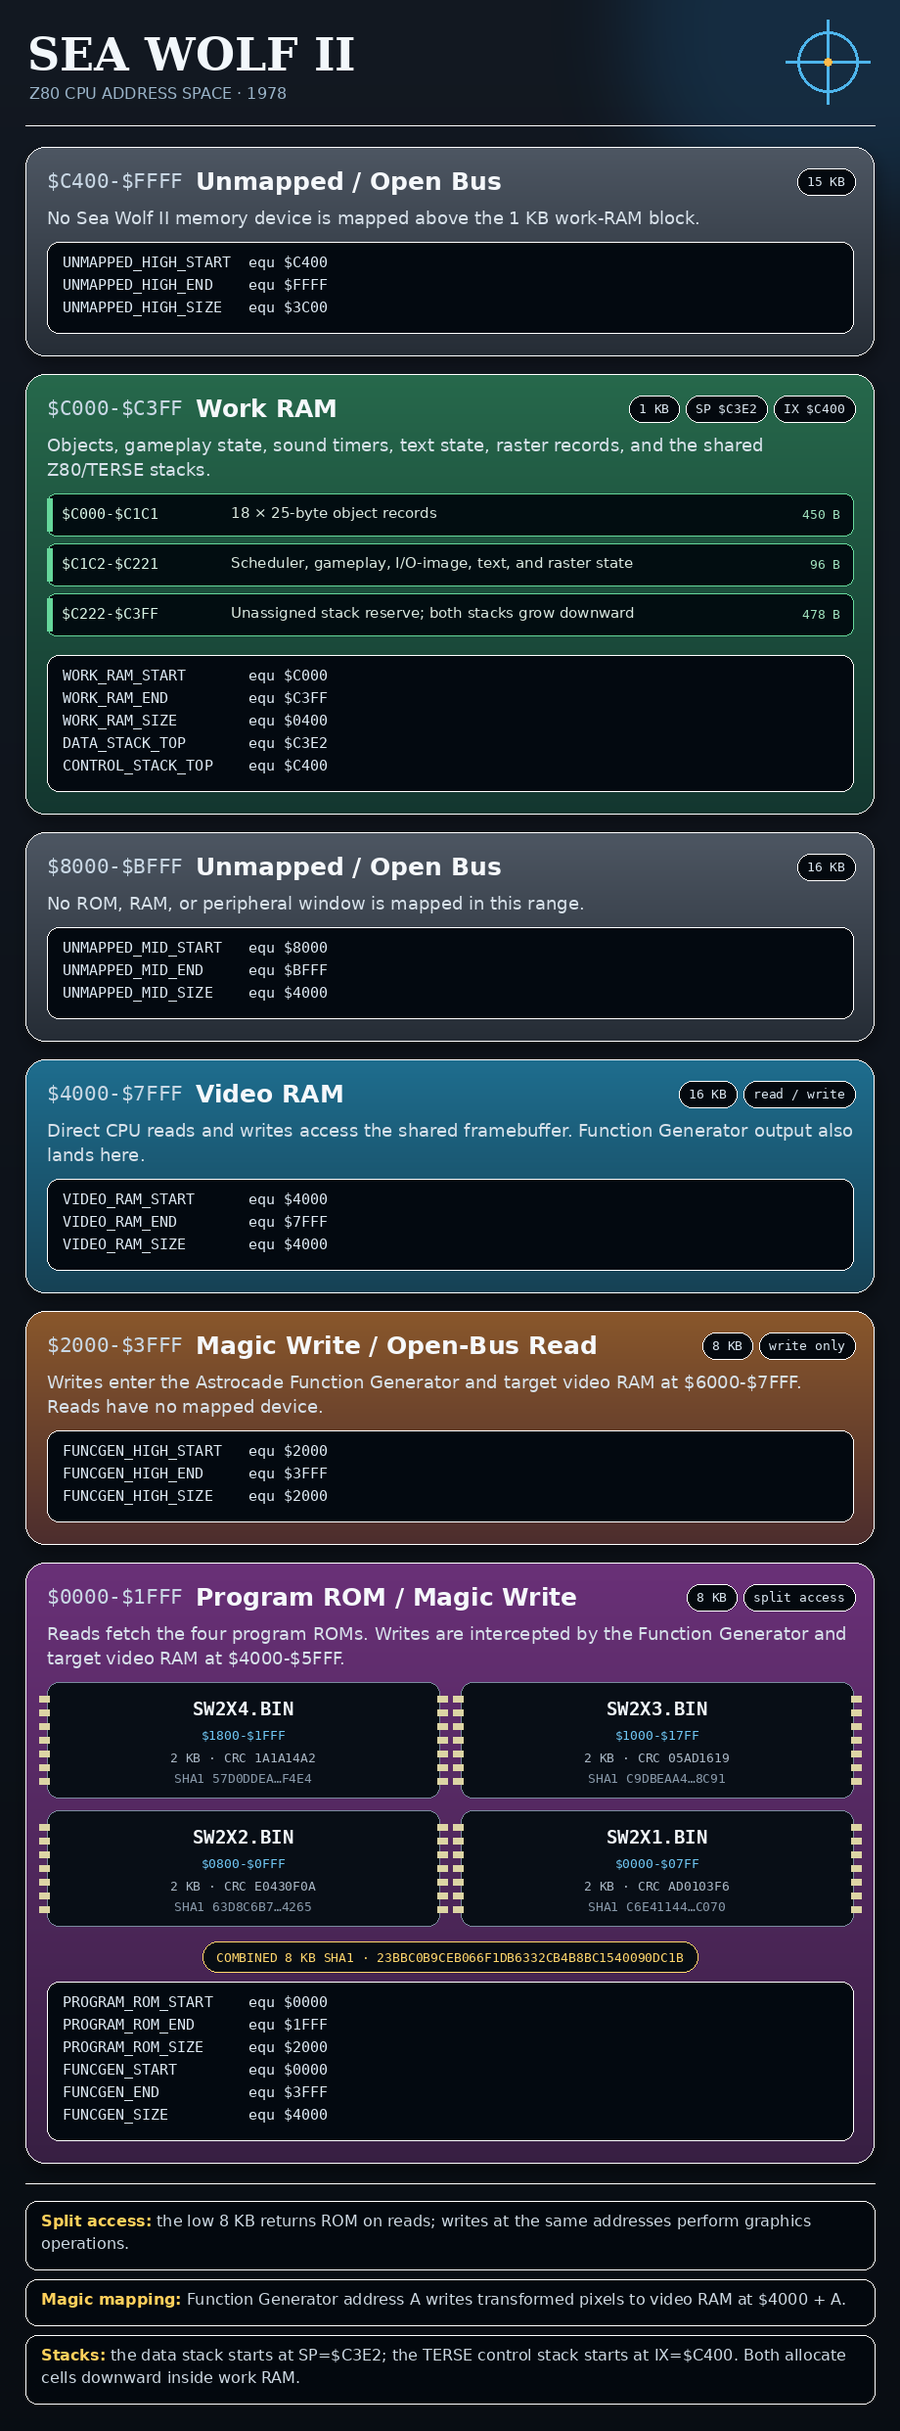
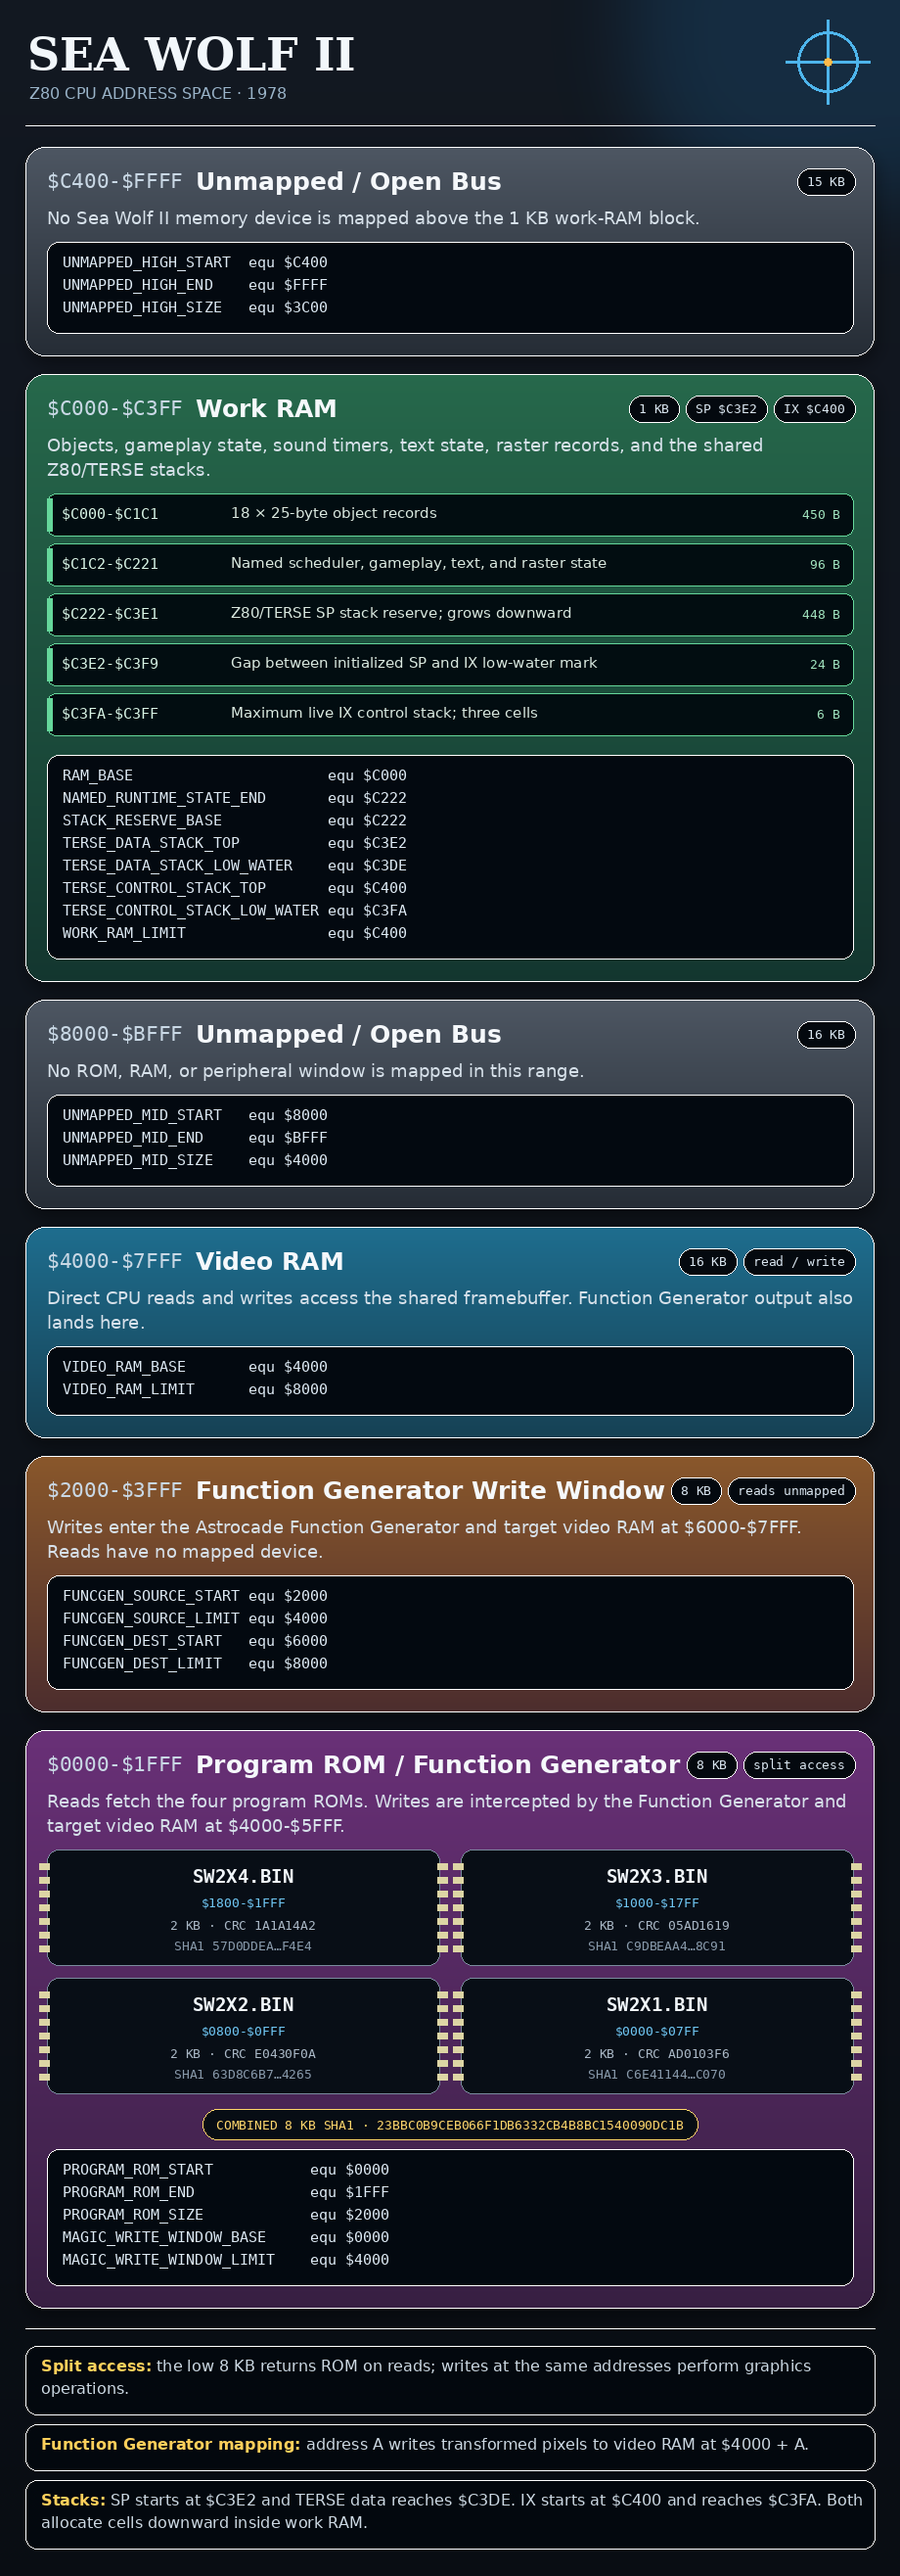
memory map

diff --git a/README.md b/README.md
@@ -23,7 +23,7 @@ summary.
 | [RAM and I/O](#ram-and-io-ownership) | Every live byte from `$C000-$C221`, work-RAM clear domains, stack reserve, aliases, raster records, object padding, reset-only cells, and ROM-used I/O ports are assigned or formally classified. |
 | [Video and raster](#raster-interrupt-scheduler) | Both six-entry schedules, IM 2 selection, interrupt handlers, moving split lines, Function Generator modes, Magic RAM usage, drawing, erasure, and collision reads are traced. |
 | [Objects and gameplay](#object-lifecycles) | The 25-byte object ABI, three scheduler pools, nine object types, movement, collision, scoring, overlays, patrol completion, and torpedo/target/mine/Super Sub lifecycles are mapped. |
-| [Cabinet and controls](#cabinet-inputs-dip-switches-and-station-ownership) | Handle/start/coin inputs, S1 operator switches, service selection, station ownership, Gray-code decoding, the 32-way aim clamp, trajectories, and language contacts are resolved. The MAME French-contact correction has been submitted upstream. |
+| [Cabinet and controls](#cabinet-inputs-dip-switches-and-station-ownership) | Handle/start/coin inputs, S1 operator switches, service selection, station ownership, Gray-code decoding, the 32-way aim clamp, trajectories, and language contacts are resolved. The French-contact correction is tracked by [MAME PR #15989](https://github.com/mamedev/mame/pull/15989). |
 | [Graphics and text](#structured-graphics-and-tables) | All 43 font glyphs, localized prompts, status graphics, 26 referenced object descriptors, two unreferenced descriptors, self-test patterns, and both trajectory tables are bounded and labeled. |
 | [Sound](#discrete-sound-control) | Frame-owned sound timers, port `$40/$41` packing, sonar, hit, torpedo, dive, and coin-counter timing are documented. |
 | [Residual data](#remaining-raw-data) | The 2,759 remaining `DB` bytes are classified as TERSE operands, tables, graphics/text, or fill, except for the single uncertain byte at `$1385`. |
@@ -815,8 +815,9 @@ selects one of the English, German, or French prompt-pointer groups.
 
 MAME 0.289 defines the German contact correctly but places the French contact
 on port `$10` bit 6. The ROM never reads that bit, so MAME's French setting
-displays English prompts. The supplied MAME driver patch moves only that
-contact to port `$11` bit 6; no ROM change is required.
+displays English prompts. [MAME PR #15989](https://github.com/mamedev/mame/pull/15989)
+moves only that contact to port `$11` bit 6; no ROM change is required. At this
+README revision, the PR is awaiting approval and merge.
 
 ### Station ownership
 
@@ -1496,6 +1497,7 @@ material:
 ### Emulator source
 
 - [MAME `astrocde.cpp` driver](https://github.com/mamedev/mame/blob/master/src/mame/bally/astrocde.cpp)
+- [MAME PR #15989 — bally/astrocde.cpp: Fix Sea Wolf II French language DIP switch](https://github.com/mamedev/mame/pull/15989)
 
 ### Bally Alley
 
